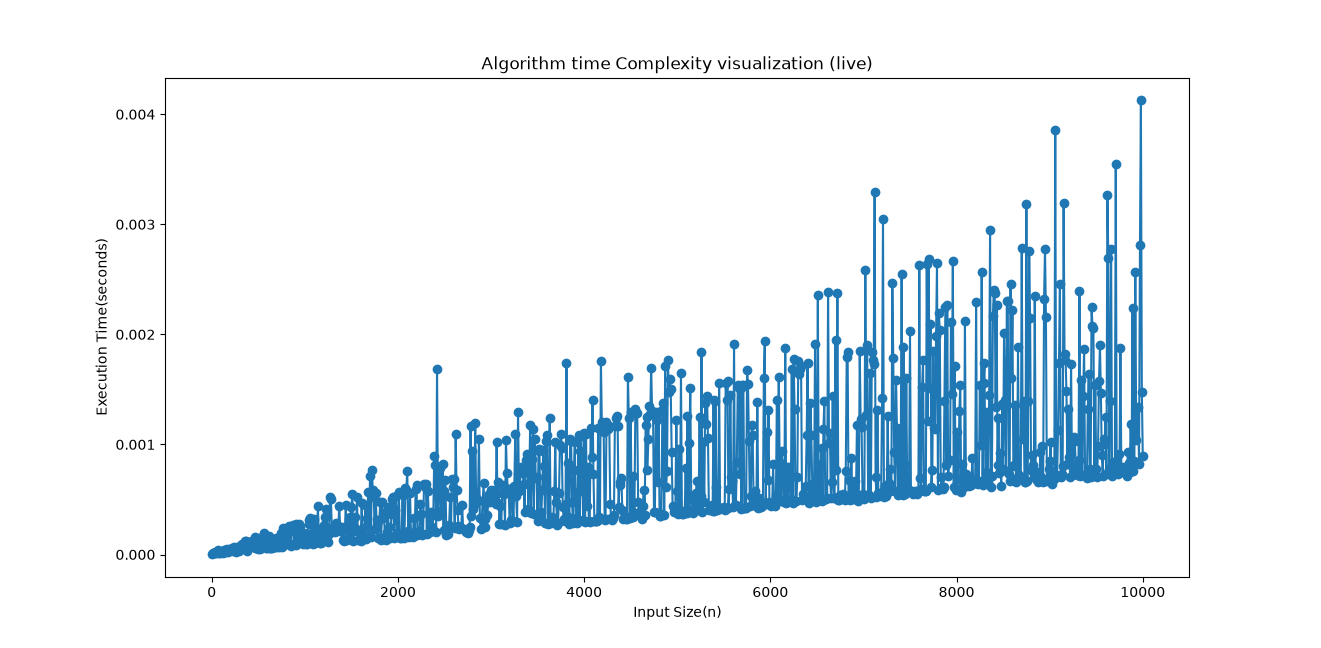
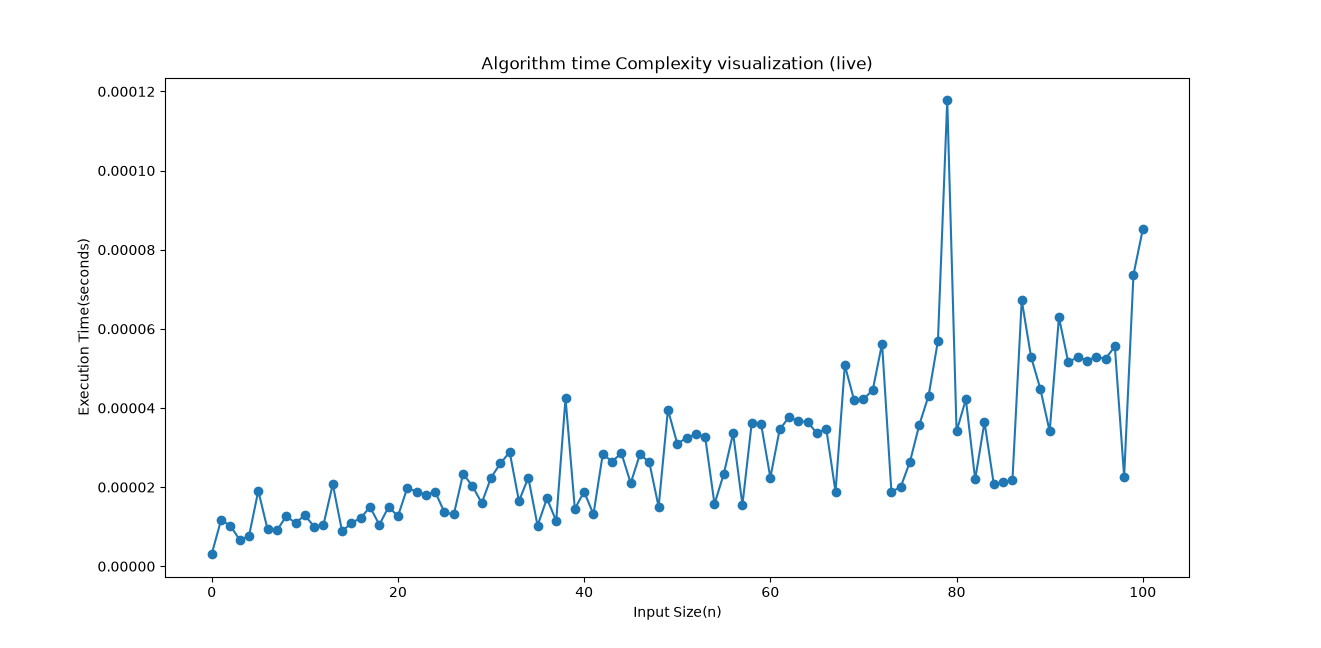
stack and queue operation test suites

diff --git a/app.py b/app.py
@@ -1,14 +1,27 @@
 from flask import Flask, request
 import base64
 from algorithm import time_complexity_visualizer
-from algorithm import linear_search, bubble_sort, binary_search, nested_loop, two_pointer
+from algorithm import linear_search, bubble_sort, binary_search, nested_loop, two_pointer, unique_users
+from stk import stack, push, pop, peep, is_empty
+from stk import push_algorithm, pop_algorithm, peep_algorithm, isempty_algorithm
+from que import queue, enqueue, dequeue, peek, queis_empty
+from que import enqueue_algorithm, dequeue_algorithm, peek_algorithm, queis_empty_algorithm
 
 algorithms = {
     "linear_search" : linear_search,
     "bubble_sort" : bubble_sort,
     "binary_search" : binary_search,
     "nested_loop" : nested_loop,
-    "two_pointer" : two_pointer
+    "two_pointer" : two_pointer,
+    "unique_users" : unique_users,
+    "push_algorithm" : push_algorithm,
+    "pop_algorithm" : pop_algorithm,
+    "peep_algorithm" : peep_algorithm,
+    "isempty_algorithm" : isempty_algorithm,
+    "enqueue_algorithm" : enqueue_algorithm,
+    "dequeue_algorithm" : dequeue_algorithm,
+    "peek_algorithm" : peek_algorithm,
+    "queis_empty_algorithm" : queis_empty_algorithm
 }
 
 app = Flask(__name__)

diff --git a/que.py b/que.py
@@ -1,0 +1,31 @@
+queue = []
+
+def enqueue(n):
+    queue.append(n)
+def dequeue():
+    return queue.pop(0)
+def peek():
+    return queue[0]
+def queis_empty():
+    return len(queue) == 0
+
+def enqueue_algorithm(n):
+    queue.clear()
+    for i in range(n):
+        enqueue(i)
+def dequeue_algorithm(n):
+    queue.clear()
+    for i in range(n):
+        enqueue(i)
+    for i in range(n):
+        dequeue()
+def peek_algorithm(n):
+    queue.clear()
+    for i in range(n):
+        enqueue(i)
+    for i in range(n):
+        peek()
+def queis_empty_algorithm(n):
+    queue.clear()
+    for i in range(n):
+        queis_empty()

diff --git a/stk.py b/stk.py
@@ -1,0 +1,36 @@
+stack = []
+
+def push(n):
+    stack.append(n)
+def pop():
+    return stack.pop()
+def peep():
+    return stack[-1]
+def is_empty():
+    return len(stack) == 0
+
+def push_algorithm(n):
+    stack.clear()
+    for i in range(n):
+        push(i)
+
+def pop_algorithm(n):
+    stack.clear()
+    for i in range(n):
+        push(i)
+    for i in range(n):
+        pop()
+
+def peep_algorithm(n):
+    stack.clear()
+    for i in range(n):
+        push(i)
+    for i in range(n):
+        peep()
+
+def isempty_algorithm(n):
+    stack.clear()
+    for i in range(n):
+        is_empty()
+
+

diff --git a/algorithm.py b/algorithm.py
@@ -86,3 +86,16 @@ def two_pointer(n):
         else:
             right -= 1
     return False
+
+def unique_users(n):
+    users = []
+    for k in range(n):
+        users.append({'id': k})
+    seen = set()
+
+    for user in users:
+        if user['id'] not in seen:
+            seen.add(user['id'])
+        return seen
+        
+
